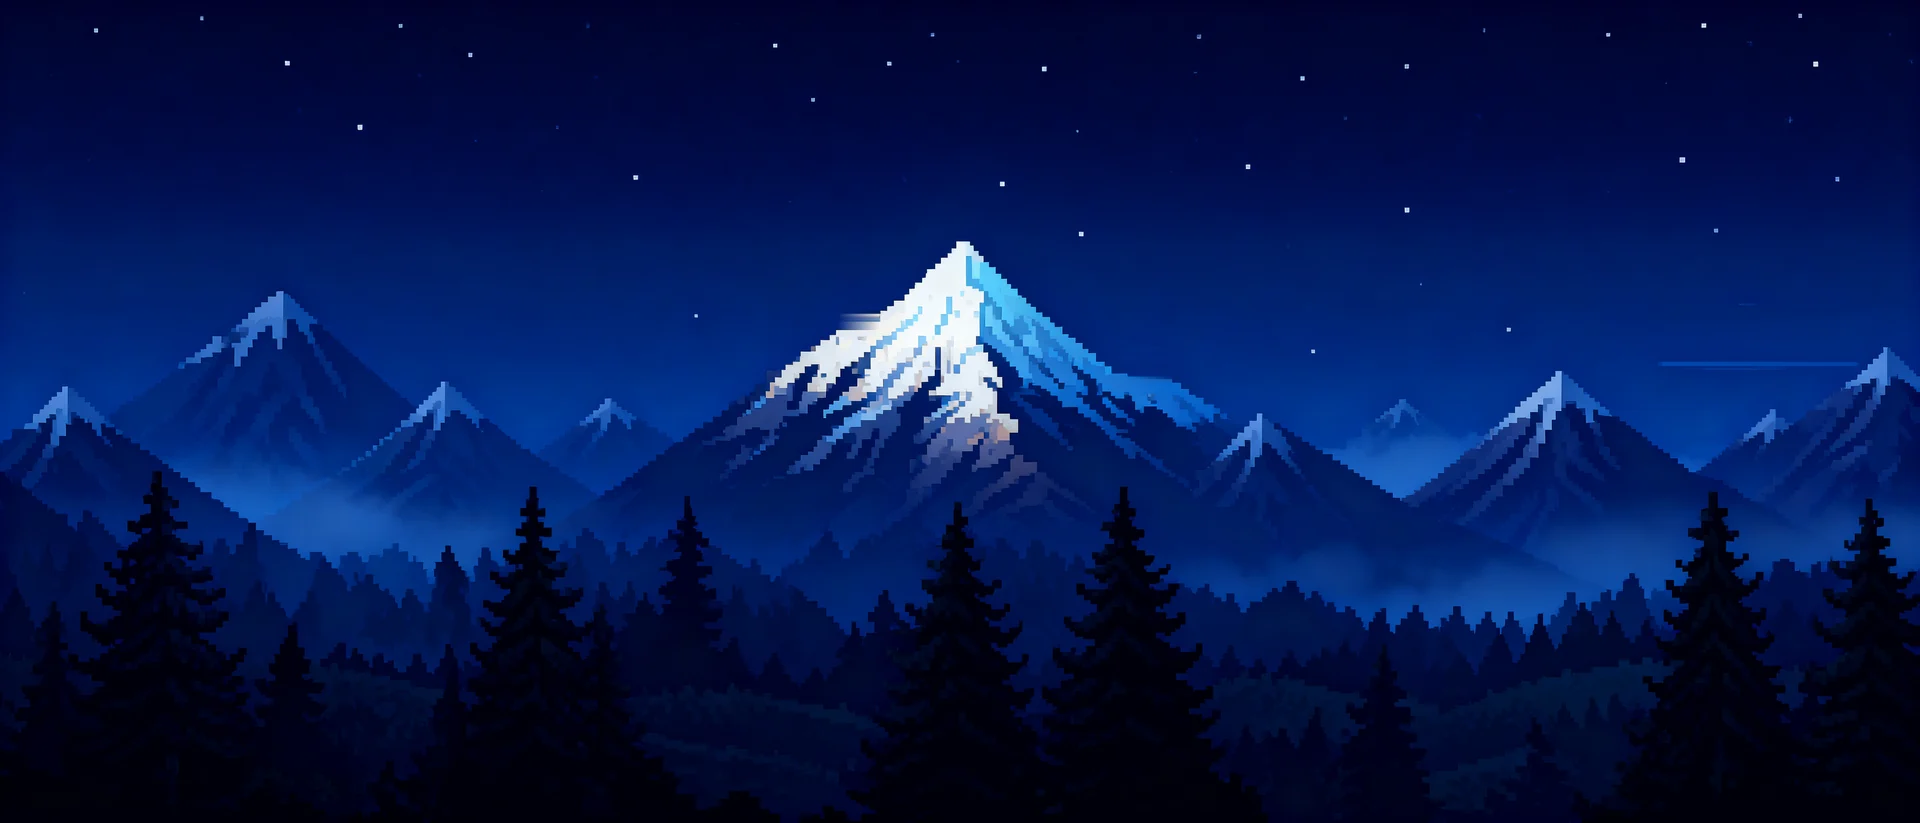
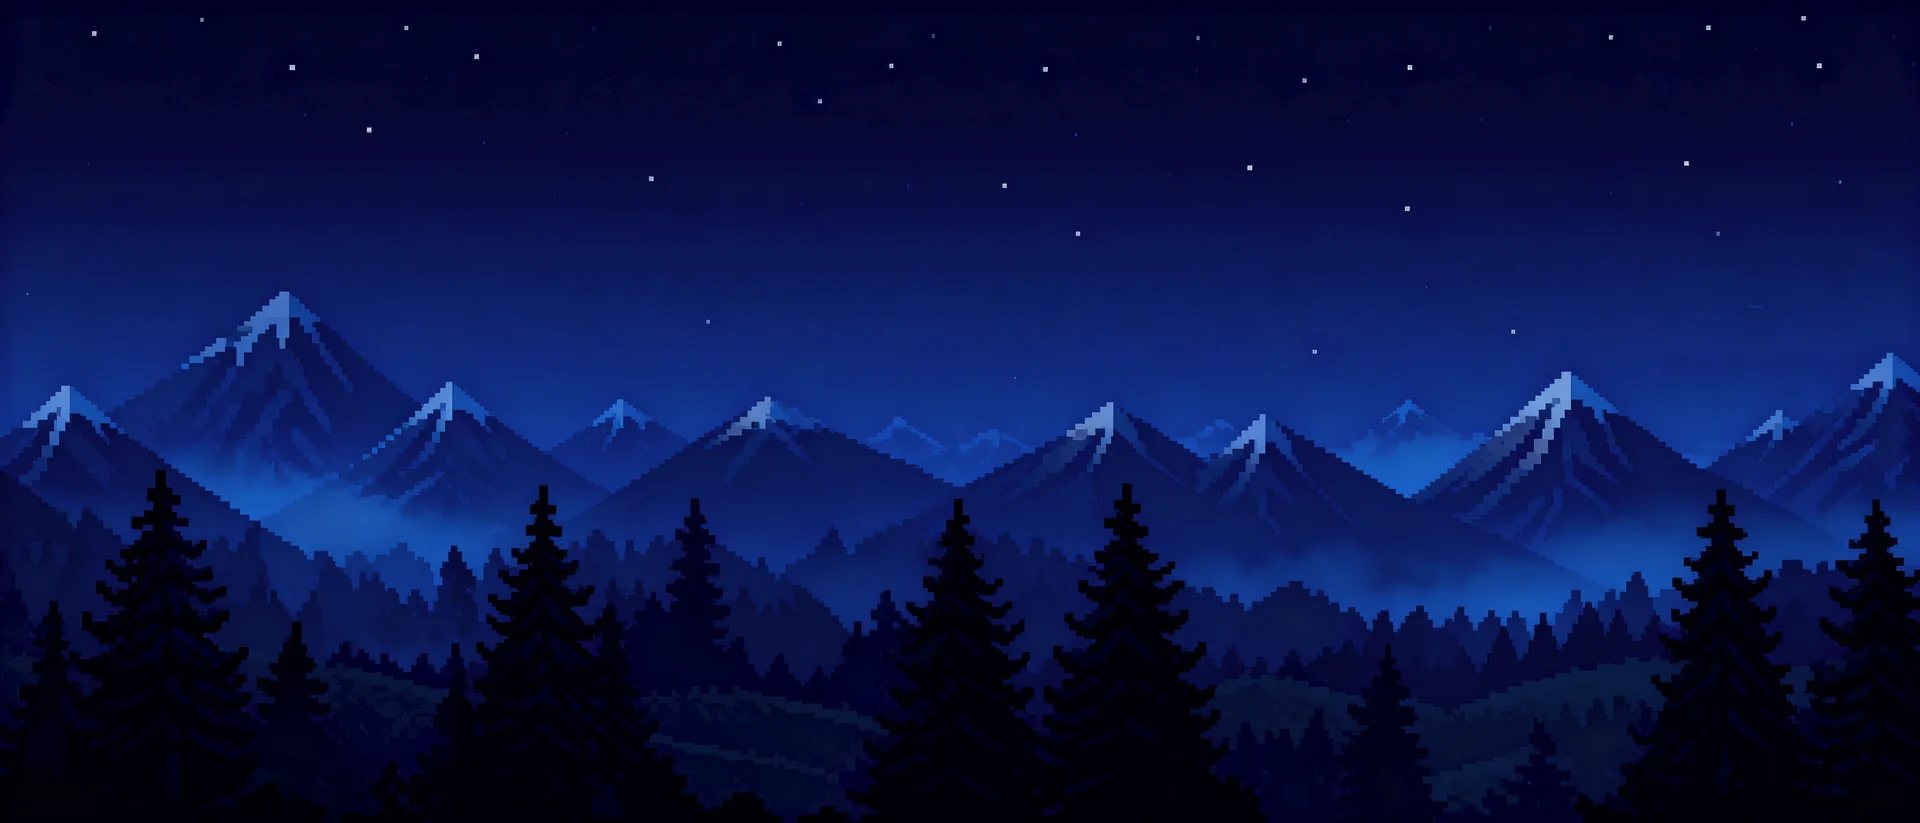
Background: rebalanced range, darker and moodier
New 4K plate from kie.ai using the previous one as the image reference:

- no dominant central peak. An even row of similar medium ridges runs the
  full width so nothing pulls focus and the skyline reads wide and calm
- much darker. Deep navy and blue-black with the snow reduced to muted
  pale grey-blue traces; no glowing white caps anywhere
- upper-left is open dark sky with the left ridges kept low, leaving room
  for the headline and CTAs
- layered ranges, low mist, rolling hills, dense pine bands and stars all
  preserved

bg_finish.py now inpaints VERTICALLY. The model left a long thin
horizontal streak across the sky, and horizontal interpolation sampled
that same streak as its right-hand reference and painted it straight back
in; blending the sky above into the sky below removes it cleanly. It also
deepens the vivid mid-blues slightly.

Dimmer peaks help the copy too: the brightest background pixel under the
left column now leaves muted body text at 6.1:1 (was 5.5:1). Plate is
130KB, down from 148KB. Clouds, scrim, hedgehog, card interaction, floor
and layout are untouched.

diff --git a/scripts/bg_finish.py b/scripts/bg_finish.py
@@ -3,8 +3,8 @@
 
     cd D:/Business/GetJogo && python scripts/bg_finish.py
 
-- paints out two stray glowing markers the model added to the main peak
-- cools the warm cream cast off the lit snow so the scene stays moonlit
+- paints out stray marks the model leaves in the sky
+- deepens the mid blues a touch so the plate stays calm and moody
 - exports 3840x1646 (desktop) and 1920x823 (mobile) WebP
 """
 import colorsys
@@ -12,42 +12,40 @@ import os
 
 from PIL import Image
 
-SRC = "assets/masters/bg-4k-raw.jpg"
+SRC = "assets/masters/bg2-raw.jpg"
 OUT = "public"
 
-# stray glowing markers on the main peak, plus one lone cloud on the right
-# (the drifting cloud layers are the only clouds the scene should have)
-ARTIFACTS = [(2640, 900, 2770, 1060), (3560, 1090, 3690, 1240), (5240, 960, 5800, 1160)]
+# a thin bright streak the model drew across the sky on the right, ending
+# where the right-hand ridge begins
+ARTIFACTS = [(5200, 1134, 5868, 1178)]
 
 
 def inpaint(im, box):
-    """Rebuild a box by interpolating each row between its outside neighbours."""
+    """Rebuild a box column by column, blending the sky above it into the sky
+    below. Vertical works where horizontal cannot: the mark is a long thin
+    horizontal line, so its own pixels would otherwise be sampled as the
+    right-hand reference and simply painted back in."""
     px = im.load()
     x0, y0, x1, y1 = box
-    span = x1 - x0
-    for y in range(y0, y1):
-        left = px[max(0, x0 - 2), y]
-        right = px[min(im.width - 1, x1 + 1), y]
-        for i, x in enumerate(range(x0, x1)):
+    span = y1 - y0
+    for x in range(x0, x1):
+        top = px[x, max(0, y0 - 2)]
+        bot = px[x, min(im.height - 1, y1 + 1)]
+        for i, y in enumerate(range(y0, y1)):
             t = i / max(1, span - 1)
-            px[x, y] = tuple(round(left[c] + (right[c] - left[c]) * t) for c in range(3))
+            px[x, y] = tuple(round(top[c] + (bot[c] - top[c]) * t) for c in range(3))
 
 
-def cool_snow(im):
-    """Rotate the warm cream highlights back toward cool moonlit white."""
+def deepen(im, gain=0.94, desat=0.12):
+    """Pull the vivid blues down slightly - moodier, and kinder to the copy."""
     px = im.load()
     for y in range(im.height):
         for x in range(im.width):
             r, g, b = px[x, y]
-            if r <= b:                       # already cool, leave it
-                continue
             h, s, v = colorsys.rgb_to_hsv(r / 255, g / 255, b / 255)
-            if not (0.01 < h < 0.17 and s > 0.04):
-                continue
-            mix = min(1.0, s * 6.0)          # the warmer it is, the harder we pull
-            nh = 0.58                        # cool blue
-            ns = s * (1.0 - 0.55 * mix)
-            r2, g2, b2 = colorsys.hsv_to_rgb(nh, ns, v)
+            if s > 0.25 and v > 0.20:                 # only the saturated mid-tones
+                s *= (1.0 - desat)
+            r2, g2, b2 = colorsys.hsv_to_rgb(h, s, v * gain)
             px[x, y] = (round(r2 * 255), round(g2 * 255), round(b2 * 255))
 
 
@@ -55,8 +53,8 @@ if __name__ == "__main__":
     im = Image.open(SRC).convert("RGB")
     for box in ARTIFACTS:
         inpaint(im, box)
-    cool_snow(im)
-    im.save("assets/masters/bg-4k-clean.jpg", quality=95)
+    deepen(im)
+    im.save("assets/masters/bg2-clean.jpg", quality=95)
 
     for w, tag in ((3840, ""), (1920, "-sm")):
         r = im.resize((w, round(im.height * w / im.width)), Image.LANCZOS)
